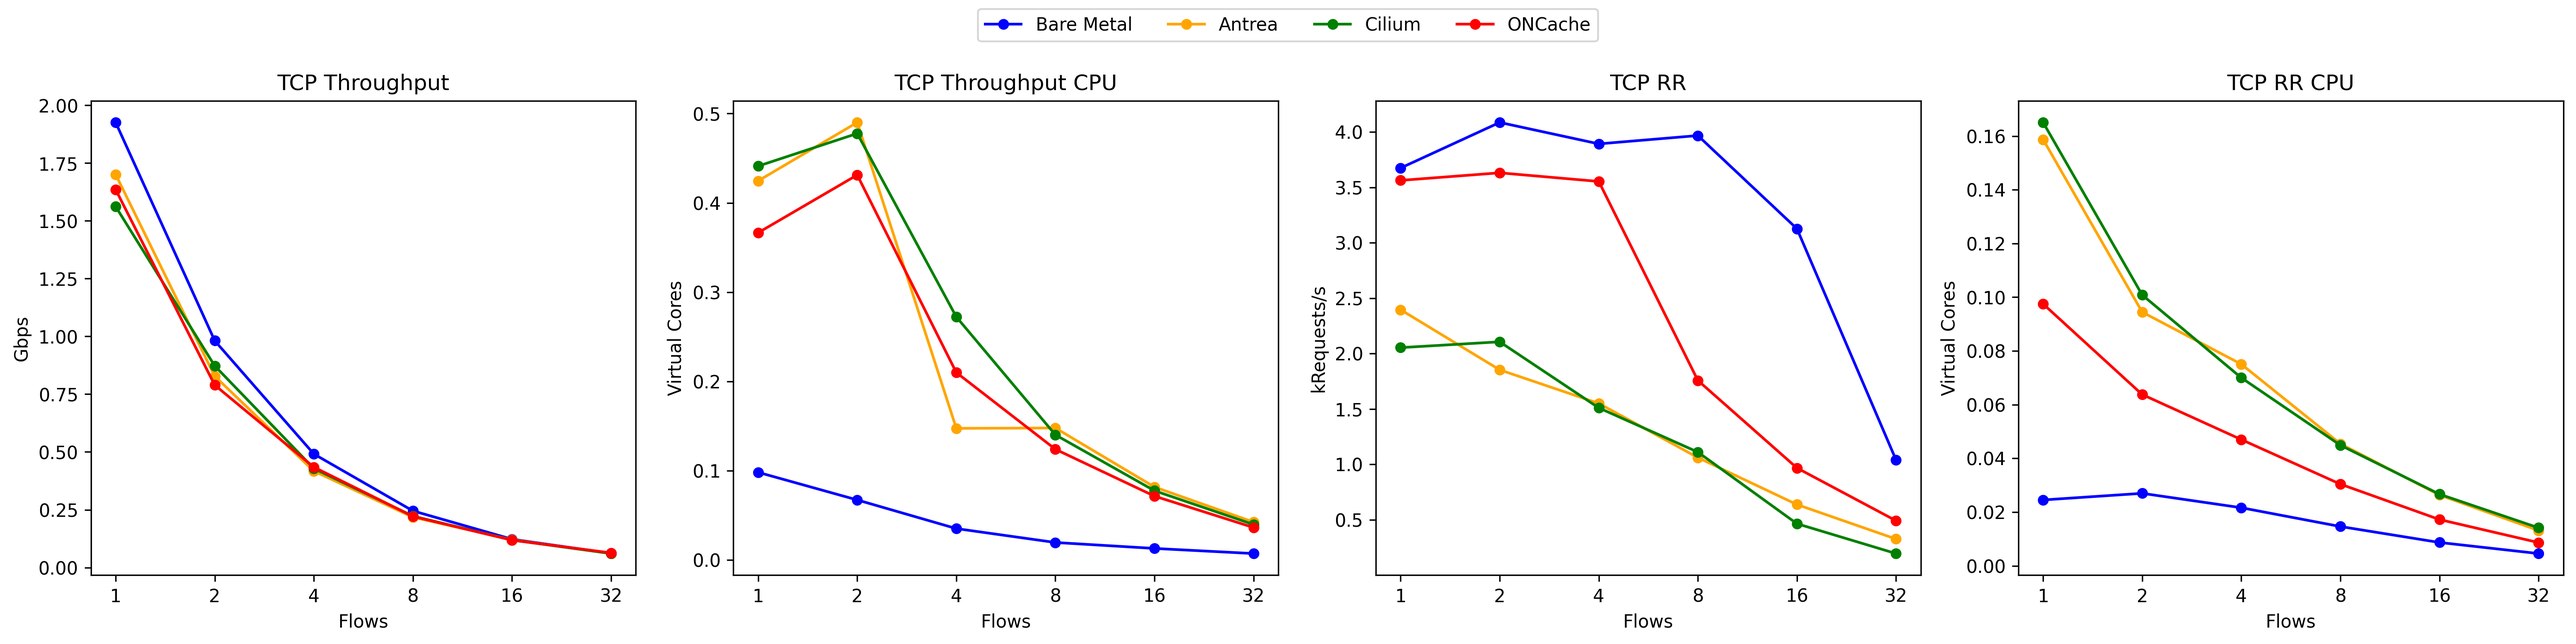
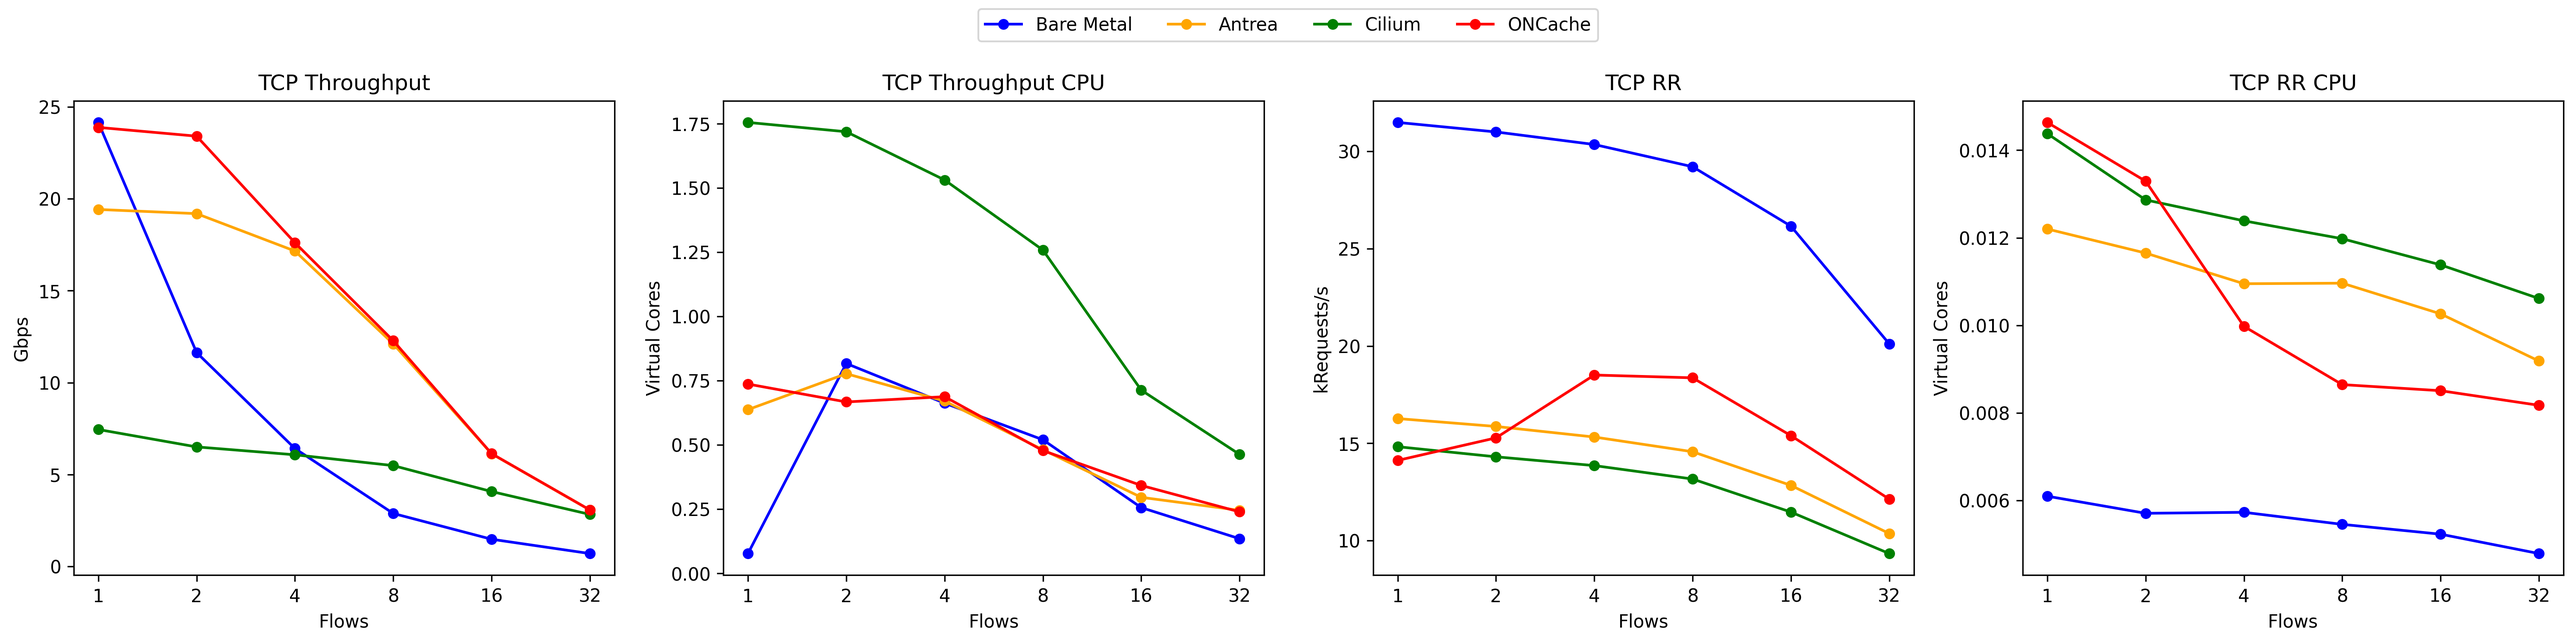
Benchmark improvements

diff --git a/baremetal/benchmark.py b/baremetal/benchmark.py
@@ -13,25 +13,35 @@ def run_client_iperf(
     for n_flows in exp_range(
         benchmark_config["min_flows"], benchmark_config["max_flows"] + 1, 2
     ):
-        cmd = [
-            "iperf3",
-            "-c",
-            destination,
-            "-p",  # Port number to connect to the server
-            str(benchmark_config["port_start"]),
-            "-t",  # Duration of the test in seconds
-            str(benchmark_config["duration"]),
-            "-P",  # Number of parallel client streams
-            str(n_flows),
-            "--logfile",
-            f"logs/baremetal/{bench_type.value.lower()}/client_log_throughput_{n_flows}_flows.json",
-            "--json",  # Output in JSON format for easier parsing
-        ]
-        if bench_type == BenchType.UDP:
-            cmd.append("-u")  # UDP test
-            cmd.append("-b")  # Bitrate limit
-            cmd.append("0")   # No limit
-        subprocess.run(cmd, check=True)
+        procs = []
+        for i in range(n_flows):
+            cmd = [
+                "iperf3",
+                "-c",
+                destination,
+                "-p",  # Port number to connect to the server
+                str(benchmark_config["port_start"] + i),
+                "-t",  # Duration of the test in seconds
+                str(benchmark_config["duration"]),
+                "-P",  # Number of parallel client streams
+                str(n_flows),
+                "--logfile",
+                f"logs/baremetal/{bench_type.value.lower()}/client_log_throughput_{n_flows}_flows_{i}.json",
+                "--json",  # Output in JSON format for easier parsing
+            ]
+            if bench_type == BenchType.UDP:
+                cmd.append("-u")  # UDP test
+                cmd.append("-b")  # Bitrate limit
+                cmd.append("0")  # No limit
+            p = subprocess.Popen(cmd, stdout=subprocess.PIPE, stderr=subprocess.PIPE)
+            procs.append(p)
+        for p in procs:
+            p.wait()
+            if p.returncode != 0:
+                print(
+                    f"Error in iperf3 for {n_flows} flows: {p.stderr.read().decode()}"
+                )
+        print(f"iperf3 completed successfully for {n_flows} flows.")
     print(f"iperf3 {bench_type.value} throughput benchmark completed for all flows.")
 
 
@@ -78,47 +88,60 @@ def run_client_netperf(
 
 
 def run_client(
-    benchmark_config: BenchmarkConfig, destination: str, bench_type: Optional[BenchType]
+    benchmark_config: BenchmarkConfig,
+    destination: str,
+    bench_type: Optional[BenchType],
+    test: Optional[str] = None,
 ):
-    # iperf Throughput Benchmark
-    if bench_type is None:
-        for bt in BenchType:
-            run_client_iperf(benchmark_config, destination, bt)
-    else:
-        run_client_iperf(benchmark_config, destination, bench_type)
+    if test is None or test == "throughput":
+        # iperf Throughput Benchmark
+        if bench_type is None:
+            for bt in BenchType:
+                run_client_iperf(benchmark_config, destination, bt)
+        else:
+            run_client_iperf(benchmark_config, destination, bench_type)
 
-    input("Press Enter to continue to the next benchmark...")
+    if test is None:
+        input("Press Enter to continue to the next benchmark...")
 
-    # netperf RR Benchmark
-    if bench_type is None:
-        for bt in BenchType:
-            run_client_netperf(benchmark_config, destination, bt)
-    else:
-        run_client_netperf(benchmark_config, destination, bench_type)
+    if test is None or test == "latency":
+        # netperf Latency Benchmark
+        if bench_type is None:
+            for bt in BenchType:
+                run_client_netperf(benchmark_config, destination, bt)
+        else:
+            run_client_netperf(benchmark_config, destination, bench_type)
 
 
-def run_server(benchmark_config: BenchmarkConfig):
+def run_server_iperf(benchmark_config: BenchmarkConfig):
+    print("Running iperf3 server")
     # iperf3 throughput benchmark
-    cmd = [
-        "iperf3",
-        "-s",
-        "-p",
-        str(benchmark_config["port_start"]),
-        "--logfile",
-        "logs/baremetal/server_log_throughput_flows.json",
-        "--json",  # Output in JSON format for easier parsing
-    ]
-    p = subprocess.Popen(cmd, stdout=subprocess.PIPE, stderr=subprocess.PIPE)
-
+    procs = []
+    for i in range(benchmark_config["max_flows"]):
+        cmd = [
+            "iperf3",
+            "-s",
+            "-p",
+            str(benchmark_config["port_start"] + i),
+            "--logfile",
+            f"logs/baremetal/server_log_throughput_{i}_flows.json",
+            "--json",  # Output in JSON format for easier parsing
+        ]
+        p = subprocess.Popen(cmd, stdout=subprocess.PIPE, stderr=subprocess.PIPE)
+        procs.append(p)
     input("Press Enter when finished with iperf...")
-    p.terminate()
-    p.wait()
-    # Check if the process is still running and terminate it
-    if p.poll() is None:
+    for p in procs:
         p.terminate()
         p.wait()
+        # Check if the process is still running and terminate it
+        if p.poll() is None:
+            p.terminate()
+            p.wait()
     print("iperf3 server terminated successfully.")
 
+
+def run_server_netperf(benchmark_config: BenchmarkConfig):
+    print("Running netserver")
     # netperf rr benchmark
     cmd = [
         "netserver",
@@ -137,43 +160,56 @@ def run_server(benchmark_config: BenchmarkConfig):
     print("netserver terminated successfully.")
 
 
-def run_benchmark(bench_type: Optional[BenchType] = None):
+def run_server(benchmark_config: BenchmarkConfig, test: Optional[str] = None):
+    if test is None:
+        run_server_iperf(benchmark_config)
+        run_server_netperf(benchmark_config)
+    elif test == "latency":
+        # netserver rr benchmark
+        run_server_netperf(benchmark_config)
+    elif test == "throughput":
+        # iperf3 throughput benchmark
+        run_server_iperf(benchmark_config)
+
+
+def run_benchmark(bench_type: Optional[BenchType] = None, test: Optional[str] = None):
     general_config = get_benchmark_config()
     spec_config = load_config("config/baremetal.toml")
 
     # Clear logs
     for b in [bench_type] if bench_type else BenchType:
-        subprocess.run(
-            ["mkdir", "-p", f"logs/baremetal/{b.value.lower()}"],
-            check=True,
-        )
-        subprocess.run(
-            [
-                "find",
-                f"logs/baremetal/{b.value.lower()}",
-                "-name",
-                "*.json",
-                "-delete",
-            ],
-            check=True,
-        )
-        subprocess.run(
-            [
-                "find",
-                f"logs/baremetal/{b.value.lower()}",
-                "-name",
-                "*.txt",
-                "-delete",
-            ],
-            check=True,
-        )
+        for t in [test] if test else ["latency", "throughput"]:
+            subprocess.run(
+                ["mkdir", "-p", f"logs/baremetal/{b.value.lower()}"],
+                check=True,
+            )
+            subprocess.run(
+                [
+                    "find",
+                    f"logs/baremetal/{b.value.lower()}",
+                    "-name",
+                    f"*_{t}_*.json",
+                    "-delete",
+                ],
+                check=True,
+            )
+            subprocess.run(
+                [
+                    "find",
+                    f"logs/baremetal/{b.value.lower()}",
+                    "-name",
+                    f"*_{t}_*.txt",
+                    "-delete",
+                ],
+                check=True,
+            )
 
     role = get_role()
     if role == "primary":
         destination = spec_config["node"]["secondary"]["ip"]
-        run_client(general_config, destination, bench_type)
+        run_client(general_config, destination, bench_type, test)
     elif role == "secondary":
-        run_server(general_config)
+        run_server(general_config, test)
     else:
         raise ValueError(f"Unknown role: {role}. Expected 'primary' or 'secondary'.")
 

diff --git a/k8s/benchmark.py b/k8s/benchmark.py
@@ -207,48 +207,53 @@ def run_netperf_benchmark(
     print("netperf benchmark completed for all flows.")
 
 
-def run_benchmark(bench_type: Optional[BenchType], overlay: str):
+def run_benchmark(bench_type: Optional[BenchType], overlay: str, test: Optional[str]):
     benchmark_config = get_benchmark_config()
     load_kube_config()
 
     # Clear logs
     for bt in [bench_type] if bench_type else BenchType:
-        subprocess.run(["mkdir", "-p", f"logs/k8s/{overlay}/{bt.value.lower()}"])
-        subprocess.run(
-            [
-                "find",
-                f"logs/k8s/{overlay}/{bt.value.lower()}",
-                "-name",
-                "*.json",
-                "-delete",
-            ],
-            check=True,
-        )
-        subprocess.run(
-            [
-                "find",
-                f"logs/k8s/{overlay}/{bt.value.lower()}",
-                "-name",
-                "*.txt",
-                "-delete",
-            ],
-            check=True,
-        )
+        for t in [test] if test else ["throughput", "latency"]:
+            subprocess.run(["mkdir", "-p", f"logs/k8s/{overlay}/{bt.value.lower()}"])
+            subprocess.run(
+                [
+                    "find",
+                    f"logs/k8s/{overlay}/{bt.value.lower()}",
+                    "-name",
+                    f"*_{t}_*.json",
+                    "-delete",
+                ],
+                check=True,
+            )
+            subprocess.run(
+                [
+                    "find",
+                    f"logs/k8s/{overlay}/{bt.value.lower()}",
+                    "-name",
+                    f"*_{t}_*.txt",
+                    "-delete",
+                ],
+                check=True,
+            )
 
     # Run iperf3 benchmark
-    pods = k8s_startup("iperf", IPERF_SERVER_DEPLOYMENT, IPERF_CLIENT_DEPLOYMENT)
-    if bench_type is None:
-        for bt in BenchType:
-            run_iperf3_benchmark(benchmark_config, pods, bt, overlay)
-    else:
-        run_iperf3_benchmark(benchmark_config, pods, bench_type, overlay)
-    k8s_teardown(IPERF_SERVER_DEPLOYMENT, IPERF_CLIENT_DEPLOYMENT)
+    if test is None or test == "throughput":
+        pods = k8s_startup("iperf", IPERF_SERVER_DEPLOYMENT, IPERF_CLIENT_DEPLOYMENT)
+        if bench_type is None:
+            for bt in BenchType:
+                run_iperf3_benchmark(benchmark_config, pods, bt, overlay)
+        else:
+            run_iperf3_benchmark(benchmark_config, pods, bench_type, overlay)
+        k8s_teardown(IPERF_SERVER_DEPLOYMENT, IPERF_CLIENT_DEPLOYMENT)
 
     # Run netperf benchmark
-    pods = k8s_startup("netperf", NETPERF_SERVER_DEPLOYMENT, NETPERF_CLIENT_DEPLOYMENT)
-    if bench_type is None:
-        for bt in BenchType:
-            run_netperf_benchmark(benchmark_config, pods, bt, overlay)
-    else:
-        run_netperf_benchmark(benchmark_config, pods, bench_type, overlay)
-    k8s_teardown(NETPERF_SERVER_DEPLOYMENT, NETPERF_CLIENT_DEPLOYMENT)
+    if test is None or test == "latency":
+        pods = k8s_startup(
+            "netperf", NETPERF_SERVER_DEPLOYMENT, NETPERF_CLIENT_DEPLOYMENT
+        )
+        if bench_type is None:
+            for bt in BenchType:
+                run_netperf_benchmark(benchmark_config, pods, bt, overlay)
+        else:
+            run_netperf_benchmark(benchmark_config, pods, bench_type, overlay)
+        k8s_teardown(NETPERF_SERVER_DEPLOYMENT, NETPERF_CLIENT_DEPLOYMENT)

diff --git a/benchmark.py b/benchmark.py
@@ -35,6 +35,14 @@ def main():
         default=None,
     )
     parser.add_argument(
+        "-t",
+        "--test",
+        type=str,
+        help="The test to run",
+        choices=["throughput", "latency"],
+        default=None,
+    )
+    parser.add_argument(
         "--parse-only",
         action="store_true",
         help="Only parse the results without running the benchmark",
@@ -67,7 +75,7 @@ def main():
     if args.benchmark == "baremetal":
         role = get_role()
         print("Running baremetal benchmark...")
-        baremetal_benchmark(BenchType.into(args.mode))
+        baremetal_benchmark(BenchType.into(args.mode), args.test)
         if role == "primary":
             for bench_type in BenchType:
                 baremetal_parse(
@@ -76,7 +84,7 @@ def main():
                 )
     elif args.benchmark == "k8s":
         print("Running Kubernetes benchmark...")
-        k8s_benchmark(BenchType.into(args.mode), args.overlay)
+        k8s_benchmark(BenchType.into(args.mode), args.overlay, args.test)
         for bench_type in BenchType:
             k8s_parse(
                 K8S_OUTPUT_FILE.format(

diff --git a/plot.py b/plot.py
@@ -25,22 +25,22 @@ Graph = TypedDict(
 
 DATA_CONFIG: Dict[str, DataConfig] = {
     "baremetal": {
-        "filename": "results/{}_baremetal_output.csv",
+        "filename": "results/{}_baremetal_output_cloudlab.csv",
         "label": "Bare Metal",
         "color": "blue",
     },
     "k8s-antrea": {
-        "filename": "results/{}_k8s_output_antrea.csv",
+        "filename": "results/{}_k8s_output_antrea_cloudlab.csv",
         "label": "Antrea",
         "color": "orange",
     },
     "k8s-cilium": {
-        "filename": "results/{}_k8s_output_cilium.csv",
+        "filename": "results/{}_k8s_output_cilium_cloudlab.csv",
         "label": "Cilium",
         "color": "green",
     },
     "k8s-oncache": {
-        "filename": "results/{}_k8s_output_oncache.csv",
+        "filename": "results/{}_k8s_output_oncache_cloudlab.csv",
         "label": "ONCache",
         "color": "red",
     }
